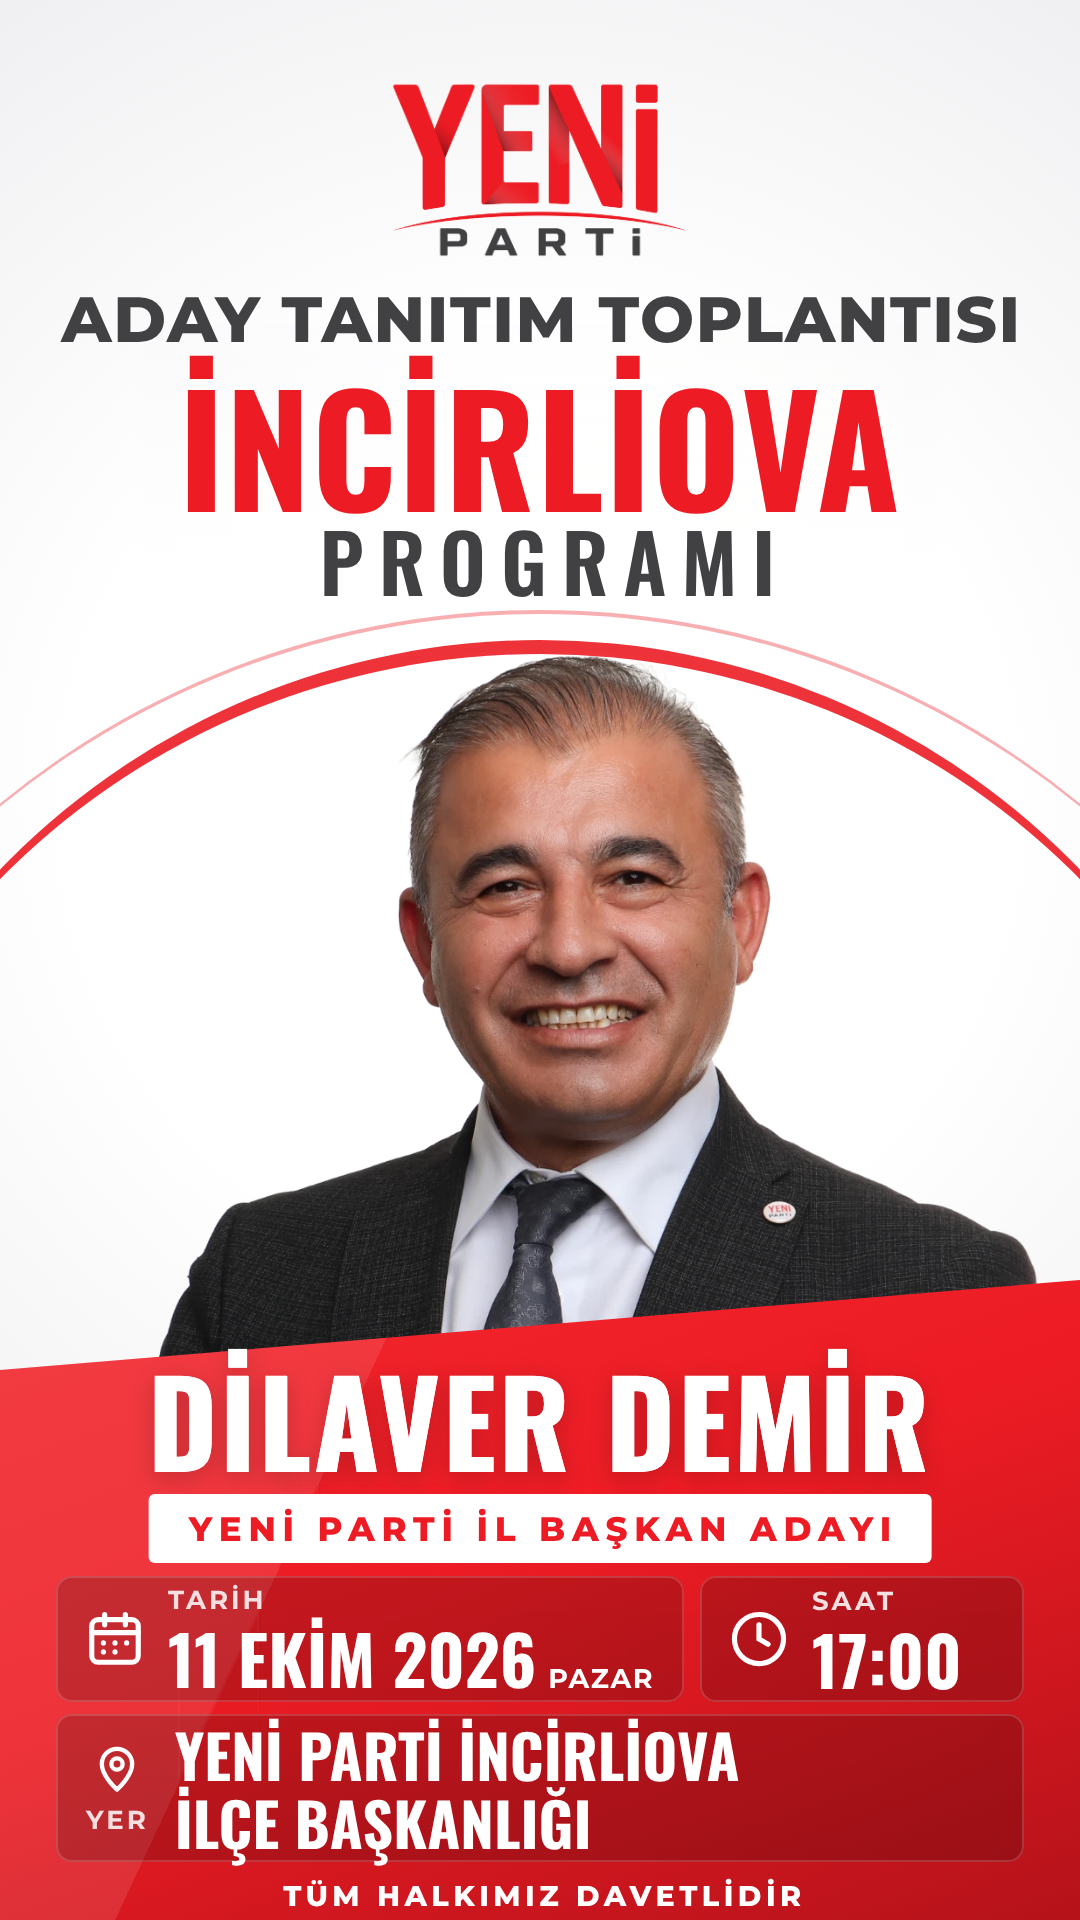
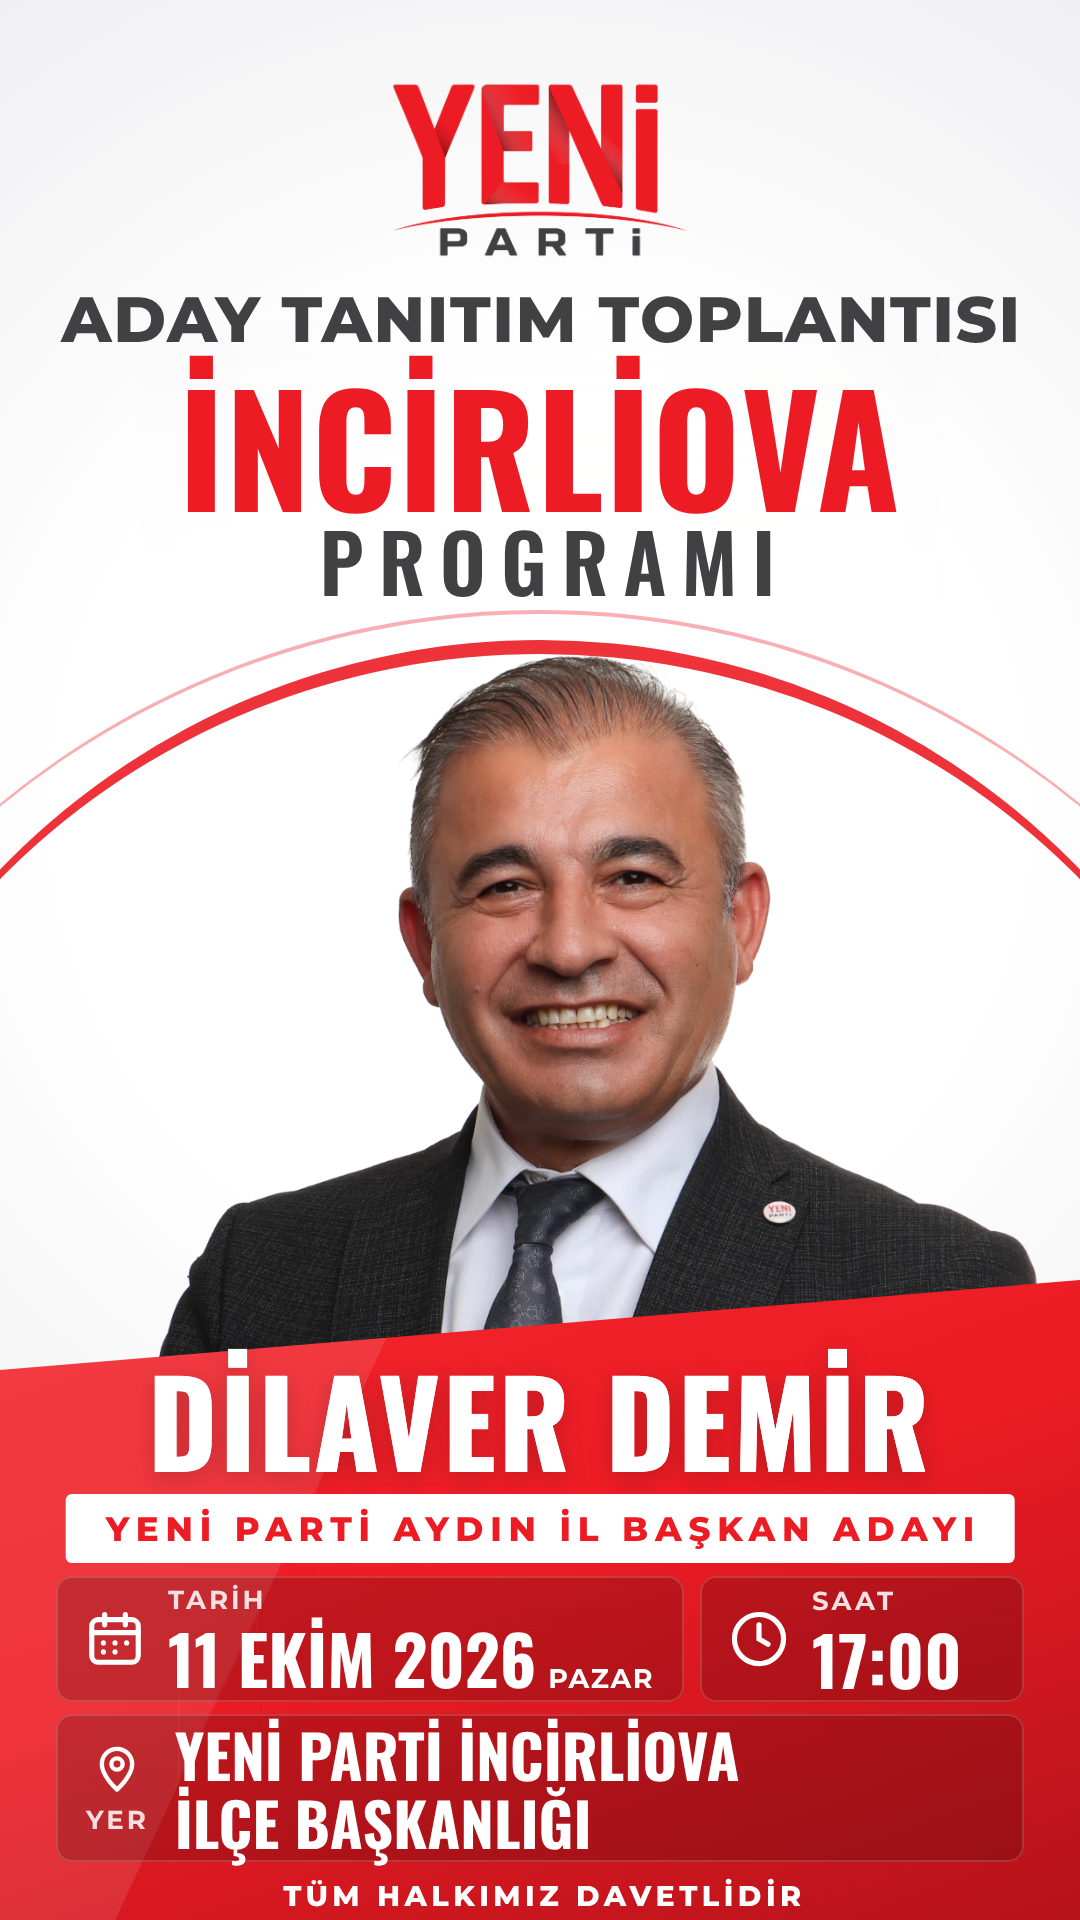
İncirliova: unvan Yeni Parti Aydın İl Başkan Adayı
Claude-Session: https://claude.ai/code/session_01SatttGbgBLoCnk9KGLypWv

Changed region(s): [[0.0611, 0.7812, 0.7028, 0.8125], [0.7333, 0.7812, 0.9472, 0.8125]]

diff --git a/tasarim/kisisel/incirliova-orgut/incirliova-orgut.html b/tasarim/kisisel/incirliova-orgut/incirliova-orgut.html
@@ -36,7 +36,7 @@ body{position:relative;background:url(zemin.png) 0 0/1080px 1920px no-repeat}
 <div class="m sehir">İNCİRLİOVA</div>
 <div class="m program">PROGRAMI</div>
 
-<div class="hap"><span>YENİ PARTİ İL BAŞKAN ADAYI</span></div>
+<div class="hap"><span>YENİ PARTİ AYDIN İL BAŞKAN ADAYI</span></div>
 
 <div class="kutu" style="left:56px;top:1576px;width:628px;height:126px;padding-left:28px;gap:22px">
   <svg viewBox="0 0 24 24" fill="none" stroke="#fff" stroke-width="2" stroke-linecap="round" stroke-linejoin="round">
